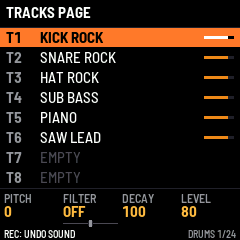
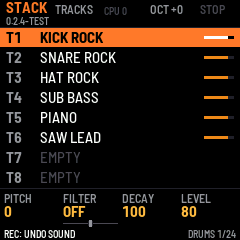
STACK 0.2.4-test: the version on the screen
At a start, a title in the tracks' place for 2 s: STACK and the version in
large type; the keys, the knobs and the header work meanwhile. The header has
a second, small line with the version, always there (under the name row or a
message). MY SAMPLES: n still comes 3 s after the start, after the title.

The version is written in one place, stack/VERSION: tools/gen_version.py
makes stack_version.h from it at every build (fm1.toml gen), app.h takes it as
APP_VERSION unless a release build passes its own, which the workflow reads
from the same file. So the simulator and the browser emulator show it too.
Nothing else changes.

Claude-Session: https://claude.ai/code/session_018euNXgamWdKgVRVWjA1Teu

diff --git a/stack/app/app.c b/stack/app/app.c
@@ -16,10 +16,6 @@
  * Part of the unity build (device/unity.c, host/plat_host.c), after the platform: gfx.c and announce.c are in scope. */
 #include "fastmath.h"
 
-#ifndef APP_VERSION
-#define APP_VERSION "DEV"                /* (a release build's -DAPP_VERSION: stack/VERSION, through the workflow) */
-#endif
-
 /* ------------------------------------------------------------------ sounds --- */
 enum { CAT_DRUMS, CAT_BASS, CAT_KEYS, CAT_PAD, CAT_LEAD, CAT_FX, NCAT };
 static const char *const CAT_NAME[NCAT] = {"DRUMS", "BASS", "KEYS", "PAD", "LEAD", "FX"};
@@ -616,6 +612,7 @@ static struct {
     uint8_t trk_of[NKEYS];
     int8_t hot;                          /* the knob turned last (0..3), lit for a moment */
     uint32_t hot_t;
+    uint8_t title;                       /* the title is up (the first TITLE_MS after a start) */
     uint8_t cpu;                         /* plat_cpu_pct, as drawn */
     uint32_t cpu_t;
     uint8_t redraw;
@@ -935,24 +932,27 @@ static void draw_header(void)
     char t[28];
     uint32_t now = plat_ms();
     cv_begin(240, 28, C_BLACK);
+    /* two lines: the first is the name row or a message; the second, small, is the version, always there (the build's
+     * APP_VERSION: stack/VERSION, the one place it is written) */
     if (now < ui.msg_until) {
-        int32_t x = cv_text(6, 5, &FONT_B, ui.msg[0], C_WHITE);
-        cv_text(x + 6, 5, &FONT_B, ui.msg[1], C_HI);
+        int32_t x = cv_text(6, 0, &FONT_B, ui.msg[0], C_WHITE);
+        cv_text(x + 6, 0, &FONT_B, ui.msg[1], C_HI);
     } else {
-        int32_t x = cv_text(6, 5, &FONT_B, APP_NAME, C_ORANGE);
-        cv_text(x + 8, 8, &FONT_XS, ui.page == PAGE_STEP ? "STEPS" : "TRACKS", C_GRAY);
+        int32_t x = cv_text(6, 0, &FONT_B, APP_NAME, C_ORANGE);
+        cv_text(x + 8, 2, &FONT_XS, ui.page == PAGE_STEP ? "STEPS" : "TRACKS", C_GRAY);
         t[0] = 0;
         text_cat(t, "OCT ");
         t[4] = ui.octave < 0 ? '-' : '+';
         t[5] = (char)('0' + (ui.octave < 0 ? -ui.octave : ui.octave));
         t[6] = 0;
-        cv_text(150, 8, &FONT_XS, t, C_GRAY);
+        cv_text(150, 2, &FONT_XS, t, C_GRAY);
         t[0] = 0;                            /* the audio's share of the processor (a test version's readout) */
         text_cat(t, "CPU ");
         int_text((int32_t)ui.cpu, t + 4);
-        cv_text(104, 11, &FONT_T, t, ui.cpu >= 70u ? C_WHITE : C_DIM);
-        cv_text(200, 8, &FONT_XS, seq_play_req ? "PLAY" : "STOP", seq_play_req ? C_HI : C_DIM);
+        cv_text(104, 5, &FONT_T, t, ui.cpu >= 70u ? C_WHITE : C_DIM);
+        cv_text(200, 2, &FONT_XS, seq_play_req ? "PLAY" : "STOP", seq_play_req ? C_HI : C_DIM);
     }
+    cv_text(6, 15, &FONT_T, APP_VERSION, C_GRAY);
     cv_rect(0, 27, 240, 1, C_LINE);
     cv_blit(0, 0);
 }
@@ -1054,10 +1054,24 @@ static void draw_knobs(void)                 /* the four knobs of the selected t
     cv_blit(0, 188);
 }
 
+#define TITLE_MS 2000u                   /* the title after a start: the name and the version, large */
+static void draw_title(void)                 /* in the tracks' place; the keys, the knobs and the header work meanwhile */
+{
+    cv_begin(240, 80, C_BLACK);
+    cv_text((240 - text_w(&FONT_L, APP_NAME)) / 2, 40, &FONT_L, APP_NAME, C_ORANGE);
+    cv_blit(0, 28);
+    cv_begin(240, 80, C_BLACK);
+    cv_text((240 - text_w(&FONT_M, APP_VERSION)) / 2, 8, &FONT_M, APP_VERSION, C_WHITE);
+    cv_text((240 - text_w(&FONT_XS, "MAKER HIP")) / 2, 44, &FONT_XS, "MAKER HIP", C_GRAY);
+    cv_blit(0, 108);
+}
+
 static void draw(void)
 {
     draw_header();
-    if (ui.page == PAGE_STEP)
+    if (ui.title)
+        draw_title();
+    else if (ui.page == PAGE_STEP)
         draw_steps();
     else
         draw_tracks();
@@ -1149,6 +1163,7 @@ static void my_frame(void)                   /* every frame: what the app's mess
 void app_ui_init(void)
 {
     my_t0 = plat_ms();
+    ui.title = 1;
     touch_on(1);                             /* velocity: the keys' readings on */
     plat_usb_audio_full(1);                  /* USB audio at full level, whatever MASTER says */
     lcd_fill(0, 0, 240, 240, C_BLACK);
@@ -1176,6 +1191,10 @@ void app_frame(void)
     }
     if (ui.undo_ok && now - ui.undo_t >= 1500u && now - ui.undo_t < 1600u)
         ui.redraw = 1;
+    if (ui.title && now - my_t0 >= TITLE_MS) {
+        ui.title = 0;
+        ui.redraw = 1;
+    }
     if (now - ui.cpu_t >= 500u) {            /* the CPU readout, twice a second */
         uint32_t c = plat_cpu_pct();
         ui.cpu_t = now;

diff --git a/stack/tools/gen_version.py b/stack/tools/gen_version.py
@@ -1,0 +1,15 @@
+#!/usr/bin/env python3
+# SPDX-License-Identifier: MPL-2.0
+# Copyright (C) 2026 Maker Hip
+"""stack_version.h from stack/VERSION, for every kind of build (the device, the simulator, the browser emulator):
+
+    tools/gen_version.py OUT/stack_version.h
+
+The version is written in one place, stack/VERSION. A release build's --release takes the same file (the workflow),
+and base/tools/build.py passes it in capitals; so does this."""
+import sys
+from pathlib import Path
+
+version = (Path(__file__).resolve().parent.parent / "VERSION").read_text().strip().upper()
+Path(sys.argv[1]).write_text("/* GENERATED by tools/gen_version.py from stack/VERSION: do not edit. */\n"
+                             f'#define STACK_VERSION "{version}"\n')

diff --git a/stack/app/app.h b/stack/app/app.h
@@ -7,6 +7,10 @@
 #include "plat.h"
 
 #define APP_NAME "STACK"
+#include "stack_version.h"               /* STACK_VERSION: stack/VERSION, by tools/gen_version.py at every build */
+#ifndef APP_VERSION                      /* (a release build passes the same, from the same file: --release) */
+#define APP_VERSION STACK_VERSION
+#endif
 #define APP_SPLASH_RGB RGB(255, 122, 47)
 #define APP_BLOCK 256u                   /* frames per audio block: 5.8 ms at 44.1 kHz */
 #define APP_TOUCH                        /* velocity from the keys (lib/touch.h) */
